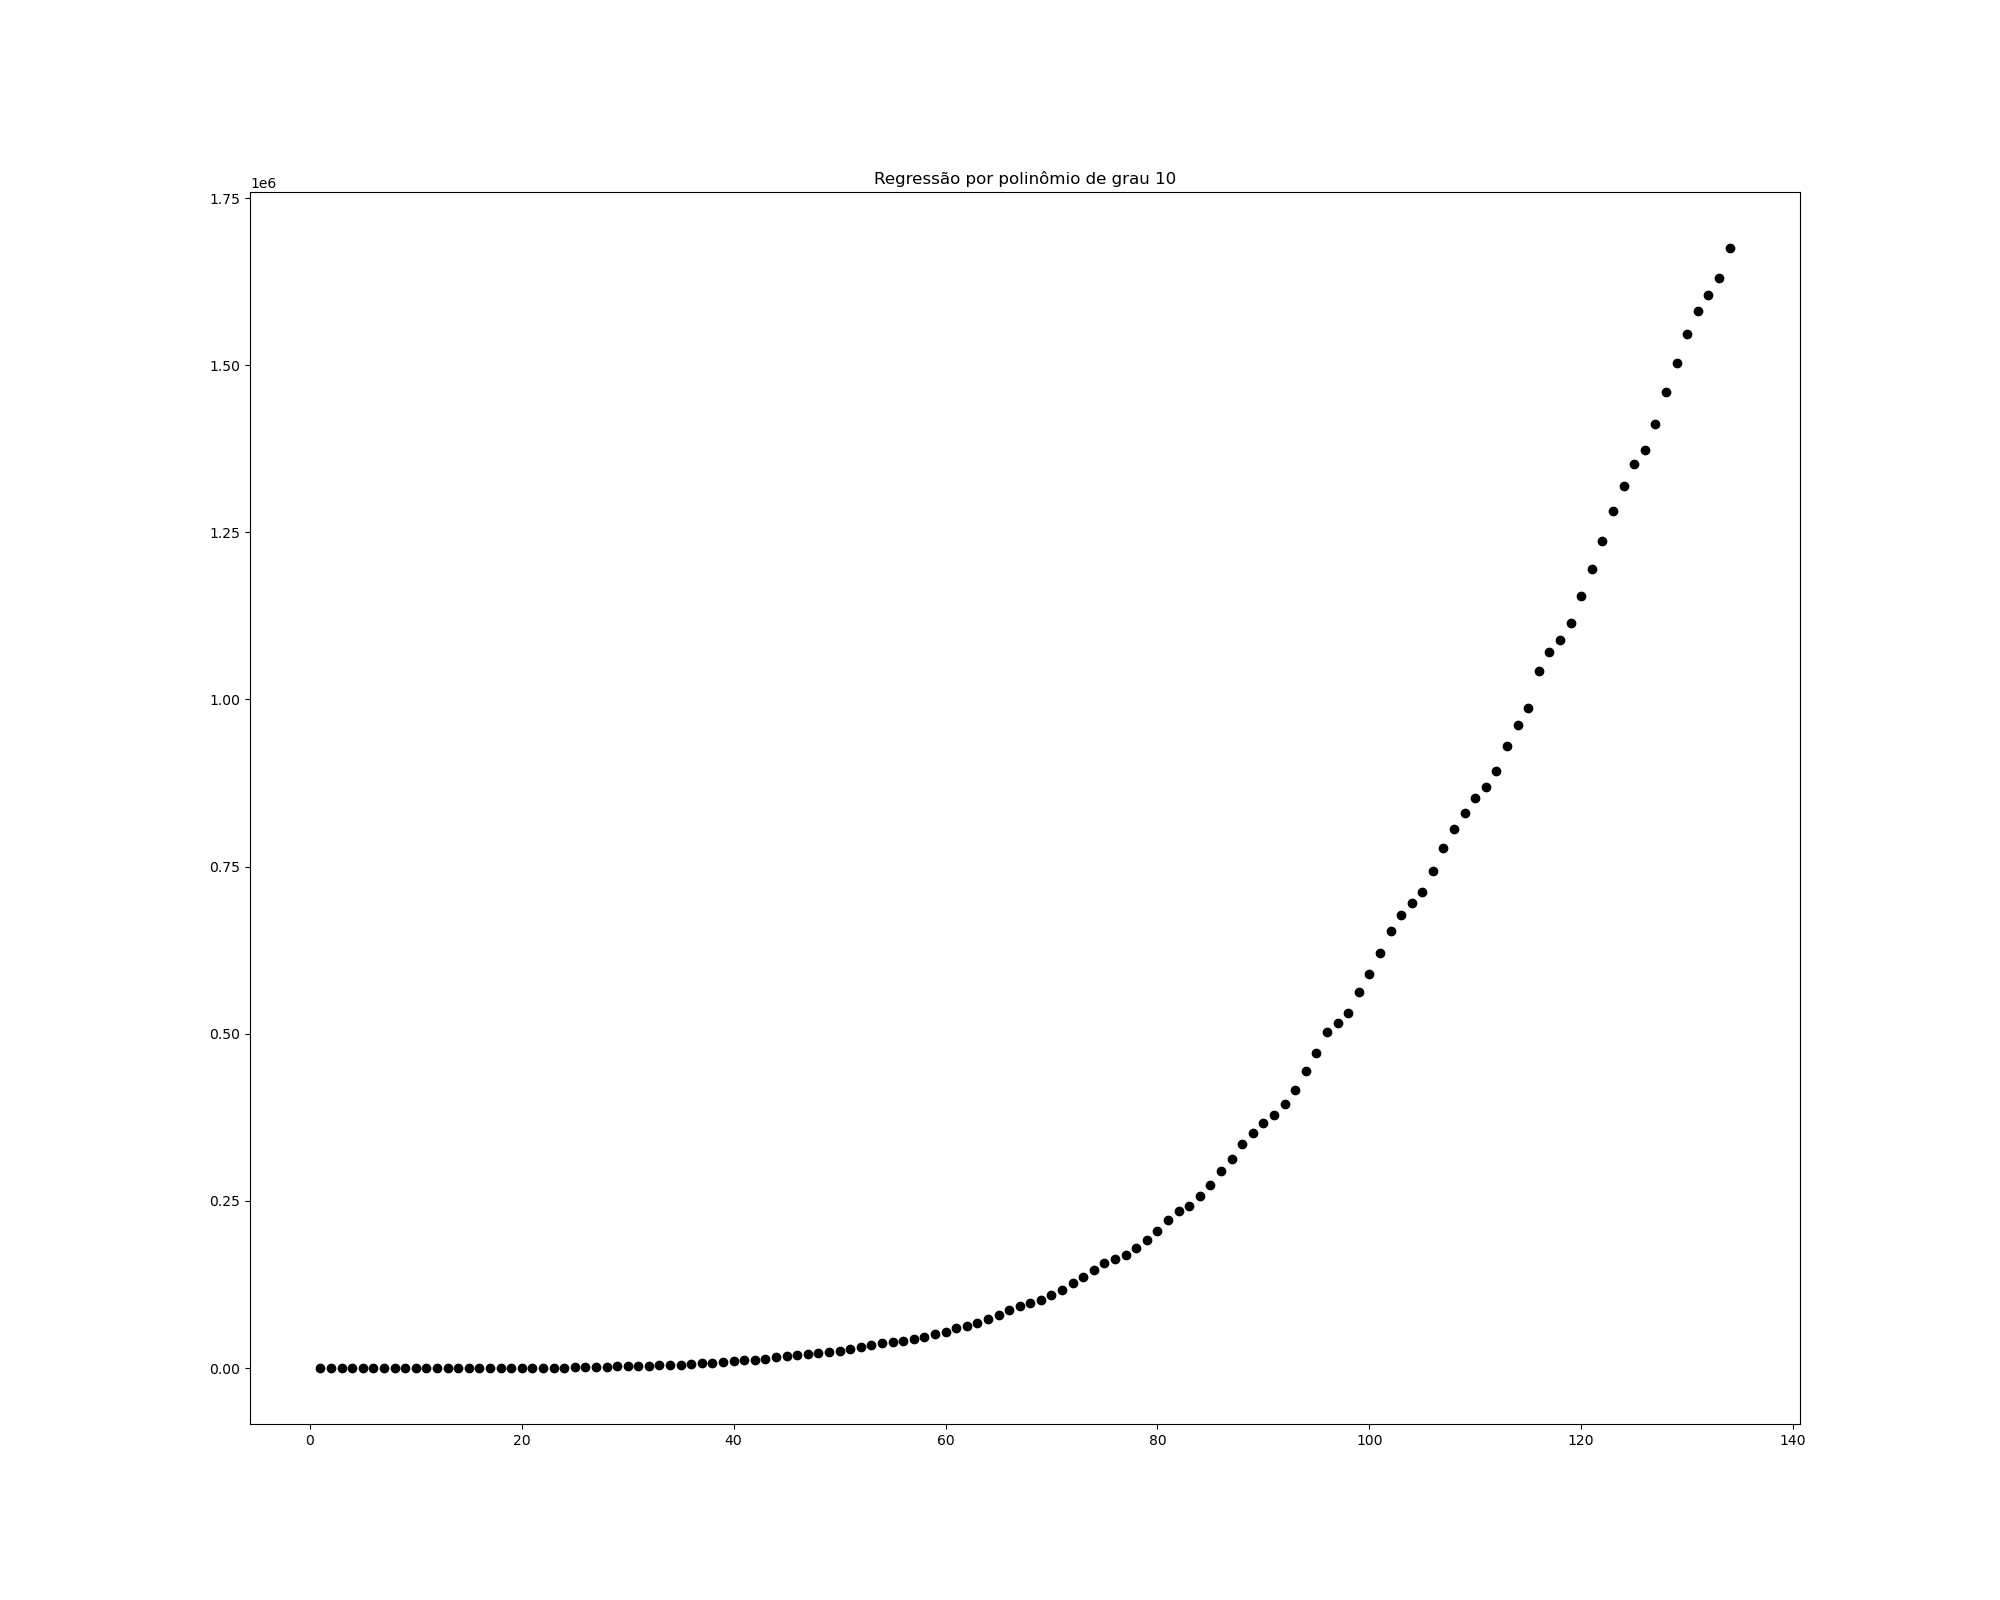
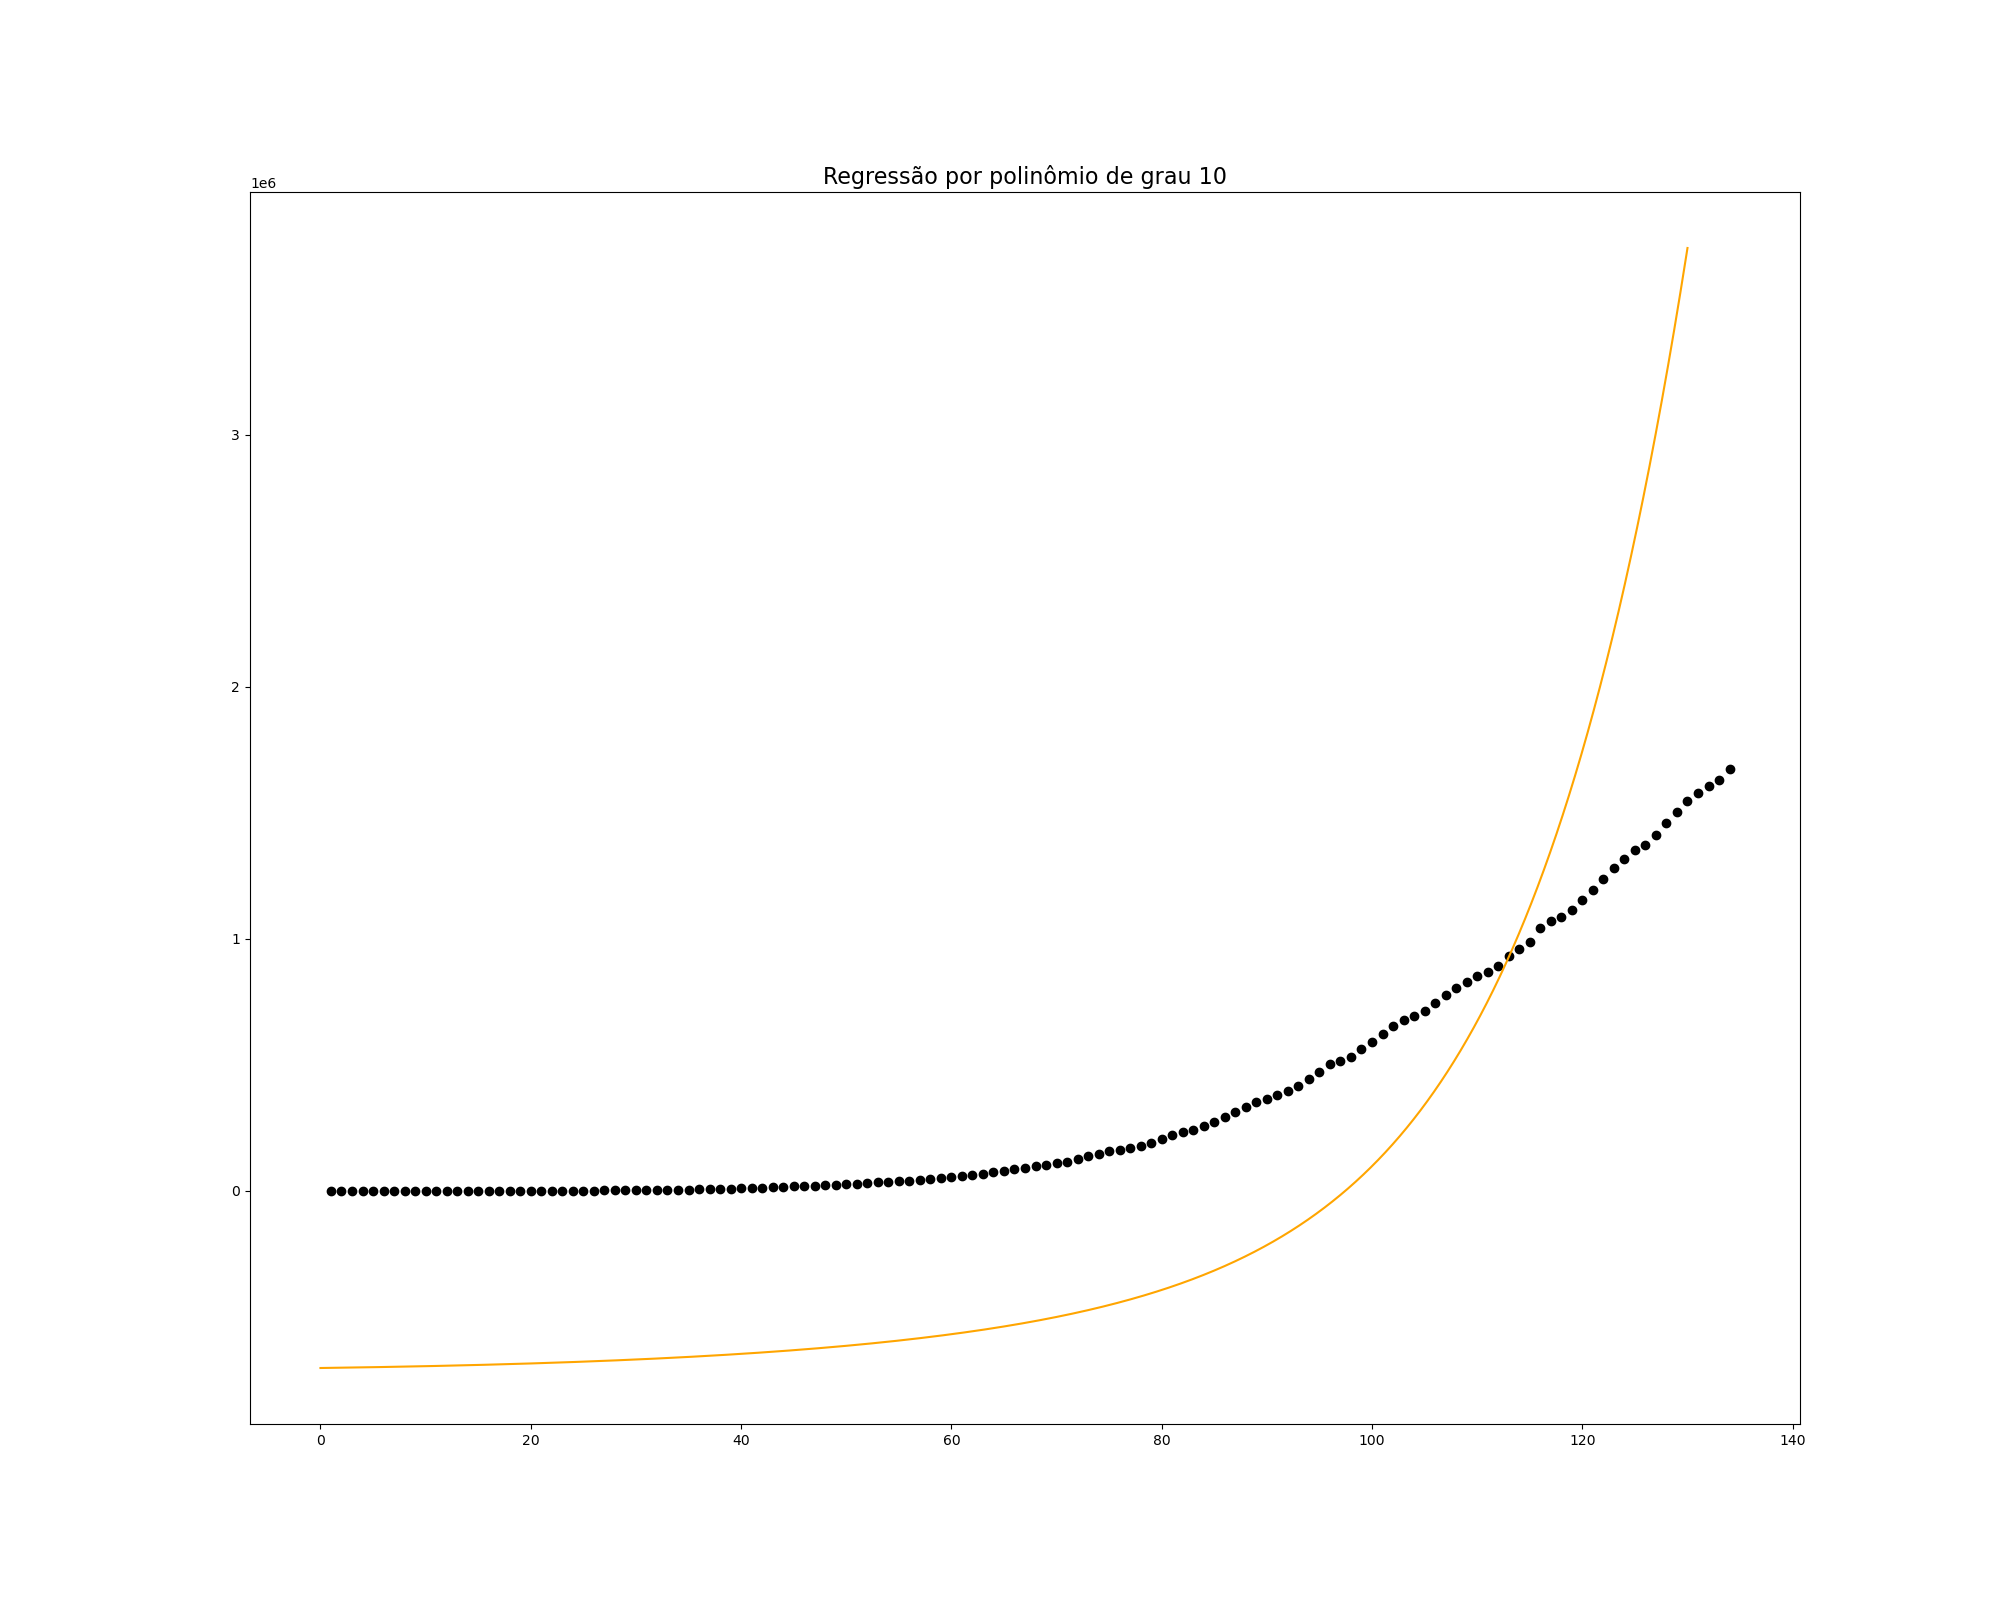
multiple normalization, polynomial results and residuals graphic
multiple normalization: ok,
polynomial results: ok, i guess, and
residuals graphic: ok

still missing: normal regression

diff --git a/Projeto1/exercicio_1/run/run_exercicio_1.py b/Projeto1/exercicio_1/run/run_exercicio_1.py
@@ -10,17 +10,17 @@ from Projeto1.exercicio_1.multiple_gd.gradient_descendent_multiple import Multip
 Read csv and main parameters
 '''
 df_casos_covid = pd.read_csv('Projeto1/data/casesBrazil.csv')
-learning_rate  = 1E-1
-min_residual   = 1E-3
-max_tries      = 1E4
+learning_rate  = 1E-3
+min_residual   = 1E-4
+max_tries      = 1E5
 
 '''
 Which regression?
 '''
-exp_reg = 1
+exp_reg = 0
+pol_reg = 1    
 
-pol_reg = 0    
-polynomial_degree = 10
+polynomial_degree = 11
 
 
 '''
@@ -28,20 +28,39 @@ Exponential Regression
 '''
 if exp_reg == 1:
 
-    coefficients, residuals = Gradient_Descendent_Exponential(
-        x_data_init=df_casos_covid['day'], 
-        y_data_init=df_casos_covid['cases'], 
-        initial_guess=[1,1],
-        learning_rate=learning_rate,
-        min_residual=min_residual,
-        max_tries=max_tries 
-        )
-    print(f'\nExponential Regression:\n\n{coefficients}\n\n')
+    learning_rate = [10, 3, 1, 0.3, 0.1, 0.03, 0.01, 0.003, 0.001]
+
+    fig, ax = plt.subplots(3,3,figsize=(18,16))
+    fig.suptitle("RESIDUALS VALUES\nw/ LEARNING RATE", fontsize=18)
+
+    for i in range(len(learning_rate)):
+
+        coefficients, residuals = Gradient_Descendent_Exponential(
+            x_data_init=df_casos_covid['day'], 
+            y_data_init=df_casos_covid['cases'], 
+            initial_guess=[1,1],
+            learning_rate=learning_rate[i],
+            min_residual=min_residual,
+            max_tries=max_tries 
+            )
+        print(f'\nExponential Regression:\n\n{coefficients}\n\n')
+
+        steps = [ j for j in range(len(residuals)) ]
+
+        ax_pos = ax[i%3,i//3]
+        ax_pos.scatter( steps, residuals, color='gray' )
+        ax_pos.set_xlabel("number of iterations", fontsize=10)
+        ax_pos.set_ylabel('residual', fontsize=10)
+        ax_pos.set_title(f'learning rate = {learning_rate[i]}')
+    
+    fig.savefig(f'Projeto1/exercicio_1/results/exponential/residuals.png', dpi=600)
+
+
 
     '''
     Save results to csv file
     '''
-    results = pd.DataFrame([learning_rate, min_residual, max_tries, exp_reg, pol_reg, polynomial_degree])
+    results = pd.DataFrame([learning_rate[-1], min_residual, max_tries, exp_reg, pol_reg, polynomial_degree])
     results.index = ['learning_rate', 'min_residual', 'max_tries', 'exp_reg', 'pol_reg', 'polynomial_degree']
     results.columns = coefficients.columns
     results = pd.concat([results, coefficients])
@@ -55,7 +74,7 @@ Polynomial Regression
 '''
 if pol_reg == 1:
 
-    # thetas = np.array([1, 1, 1, 1]) #polynomial degree = len(thetas) - 1
+    # thetas = np.array([-1, 1, -2, 1, 0.5, 1, 1, 1, 1, 1, 1]) #polynomial degree = len(thetas) - 1
 
     thetas = np.array( (polynomial_degree+1)*[1] ) #initial guess: all starts at 1
 
@@ -69,15 +88,16 @@ if pol_reg == 1:
         initial_guess=thetas,
         learning_rate=learning_rate,
         min_residual=min_residual,
-        max_tries=max_tries 
+        max_tries=max_tries,
+        normalize=1 
         )
     print(f'\nPolynomial Regression:\n\n{coefficients}\n\n')
 
     '''
     Save results to csv file
     '''
-    results = pd.DataFrame([learning_rate, min_residual, max_tries, exp_reg, pol_reg, polynomial_degree])
-    results.index = ['learning_rate', 'min_residual', 'max_tries', 'exp_reg', 'pol_reg', 'polynomial_degree']
+    results = pd.DataFrame([learning_rate, min_residual, max_tries, exp_reg, pol_reg, polynomial_degree, residuals_values['residuals'].iloc[-1]])
+    results.index = ['learning_rate', 'min_residual', 'max_tries', 'exp_reg', 'pol_reg', 'polynomial_degree', 'residual']
     results.columns = coefficients.columns
     results = pd.concat([results, coefficients])
     results.to_csv(f'Projeto1/exercicio_1/results/polynomial/pol_{polynomial_degree}.csv')
@@ -86,10 +106,10 @@ if pol_reg == 1:
     Plot
     '''
     fig, ax = plt.subplots(1,1,figsize=(20,16))
-    plt.title(f'Regressão por polinômio de grau {polynomial_degree}')
+    plt.title(f'Regressão por polinômio de grau {polynomial_degree}', fontsize=16)
     ax.scatter(x_data, y_data, color='black')
 
-    x = np.array([ np.linspace(0,134,100000) ])
+    x = np.array([ np.linspace(0,130,100000) ])
     x_polynomial = polynomial_matrice(x, coefficients)
     y = multiple_linear_function(coefficients, x_polynomial)
     ax.plot(x_polynomial[0], y[0], color='orange')

diff --git a/Projeto1/exercicio_1/multiple_gd/gradient_descendent_multiple.py b/Projeto1/exercicio_1/multiple_gd/gradient_descendent_multiple.py
@@ -1,4 +1,3 @@
-from numpy.lib.function_base import gradient
 import pandas as pd
 import numpy as np
 import matplotlib.pyplot as plt
@@ -62,7 +61,7 @@ def multiple_gradient_residual_function(x_data, y_data, coefficients):
 def Multiple_Gradient_Descendent(x_data_init, y_data_init, initial_guess, learning_rate, min_residual=1E-3, max_tries=100, normalize=1):
 
     if normalize == 1:
-        x_data, y_data = normalization(x_data_init, y_data_init)
+        x_data, y_data = multiple_normalization(x_data_init, y_data_init)
     else:
         x_data, y_data = x_data_init, y_data_init
 
@@ -86,10 +85,12 @@ def Multiple_Gradient_Descendent(x_data_init, y_data_init, initial_guess, learni
     if residual <= min_residual:
         print(f'\n   Success! The residual is under the minimal value.\nAfter {tries} steps.\n\n')
     elif tries > max_tries:
-        print(f'\n   Failed! The number of tries was exceded.\nThe residual is {residual}\n\n')
+        print(f'\n   Failed! The number of tries was exceeded.\nThe residual is {residual:e}.\n\n')
 
-    
-    coefficients = thetas
+    if normalize == 1:
+        coefficients = undo_multiple_normalization(x_data_init, y_data_init, thetas)
+    else:
+        coefficients = thetas
 
     coefficients     = pd.DataFrame(coefficients, columns=['values'], index=[('theta_'+str(i)) for i in range(coefficients.shape[0])])
     residuals_values = pd.DataFrame(residuals_values, columns=['residuals'])
@@ -145,5 +146,60 @@ def polynomial_function(thetas, x_data):
 
     return(P_x)
 
+
+
+# =============================================================================
+def multiple_normalization(x_data, y_data):
+    '''
+    This function is built to...
+
+    Parameters
+    ----------
+    x_data:
+        Entries are on row-like input. [ [x_1], [x_2], ..., [x_n] ]
+    y_data:
+        Row vector; one-dimensional array
+    '''
+
+    y_data_norm = (y_data - y_data.min()) / (y_data.max() - y_data.min())
+
+    x_min   = x_data.min(axis=1).reshape(x_data.shape[0], 1)
+    x_max   = x_data.max(axis=1).reshape(x_data.shape[0], 1)
+    delta_x = x_max - x_min
+
+    x_data_norm = (x_data - x_min) / delta_x
+
+    return(x_data_norm, y_data_norm)
+
+
+
+# =============================================================================
+def undo_multiple_normalization(x_data, y_data, thetas):
+    '''
+    This function is built to...
+
+    Parameters
+    ----------
+    x_data:
+        Entries are on row-like input. [ [x_1], [x_2], ..., [x_n] ]
+    y_data:
+        Row vector; one-dimensional array
+    '''
+
+    y_min   = y_data.min()
+    y_max   = y_data.max()
+    delta_y = y_max - y_min
+
+    x_min   = x_data.min(axis=1).reshape(x_data.shape[0], 1)
+    x_max   = x_data.max(axis=1).reshape(x_data.shape[0], 1)
+    delta_x = x_max - x_min
+
+    thetas_1_to_n = thetas[1:].reshape(x_data.shape[0],1)
+    theta_0 = delta_y*( thetas[0] - sum(thetas_1_to_n*x_min/delta_x) ) + y_min
+    theta_i = delta_y*( thetas_1_to_n/delta_x ) # i >= 1
+
+    coefficients = np.append(theta_0, theta_i)
+
+    return(coefficients)
 
 

diff --git a/Projeto1/exercicio_1/tests/teste_multiple_gd.py b/Projeto1/exercicio_1/tests/teste_multiple_gd.py
@@ -4,15 +4,15 @@ import matplotlib.pyplot as plt
 from time import time
 from datetime import timedelta
 
-from Projeto1.exercicio_1.multiple_gd.gradient_descendent_multiple import Multiple_Gradient_Descendent, multiple_linear_function
+from Projeto1.exercicio_1.multiple_gd.gradient_descendent_multiple import Multiple_Gradient_Descendent, multiple_linear_function, multiple_normalization
 
 # thetas = np.array([1, 1, 1])
 # x_data = np.array([ [0, 1, 2, 3], [2, 4, 5, 7] ])
 # y_data = np.array([-1, -1, 0, 0])
 
 thetas = np.array([1, 1])
-x_data = np.array([ [0, 1, 2, 3, 4, 5, 6, 7] ])
-y_data = np.array([1, 3, 5, 7, 9, 11, 13, 15])
+x_data = np.array([ [0, 1, 2, 3] ])
+y_data = np.array([2, 3, 4, 5])
 
 # y = multiple_linear_function(thetas, x_data)
 # print(y)
@@ -21,8 +21,8 @@ coefficients, residuals_values = Multiple_Gradient_Descendent(
     x_data_init=x_data, 
     y_data_init=y_data, 
     initial_guess=thetas, 
-    learning_rate=1E-3,
-    min_residual=1E-3,
+    learning_rate=1E-2,
+    min_residual=1E-5,
     max_tries=1E5, 
     normalize=0
     )
@@ -32,10 +32,11 @@ fig, ax = plt.subplots(1,1,figsize=(10,16))
 
 ax.scatter(x_data, y_data)
 
-x = np.array([ np.linspace(0,8,1000) ])
+x = np.array([ np.linspace(0,3,1000) ])
 y = multiple_linear_function(coefficients, x)
 ax.plot(x[0], y[0], color='orange')
 
 plt.show()
+
 
 

diff --git a/Projeto1/exercicio_1/tests/teste_polynomial_gd.py b/Projeto1/exercicio_1/tests/teste_polynomial_gd.py
@@ -20,8 +20,8 @@ coefficients, residuals_values = Multiple_Gradient_Descendent(
     x_data_init=x_data_polynomial, 
     y_data_init=y_data, 
     initial_guess=thetas, 
-    learning_rate=1E-3,
-    min_residual=1E-3,
+    learning_rate=1E-2,
+    min_residual=1E-5,
     max_tries=1E5, 
     normalize=0
     )
